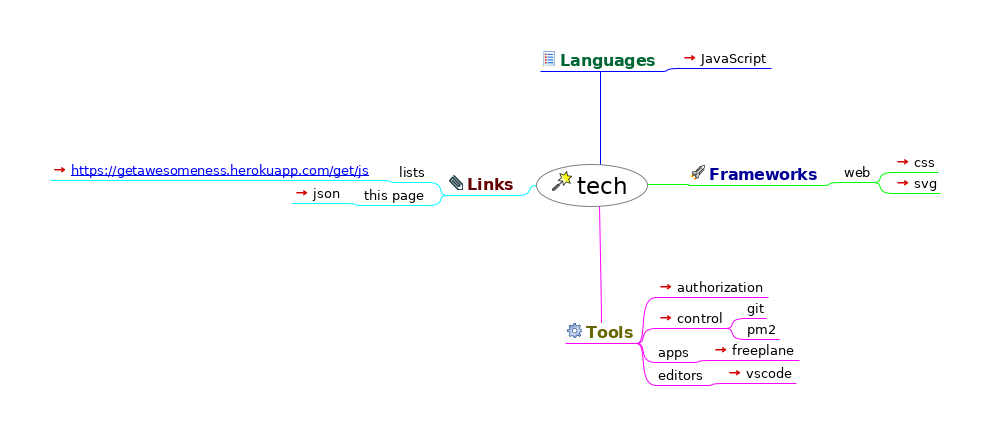
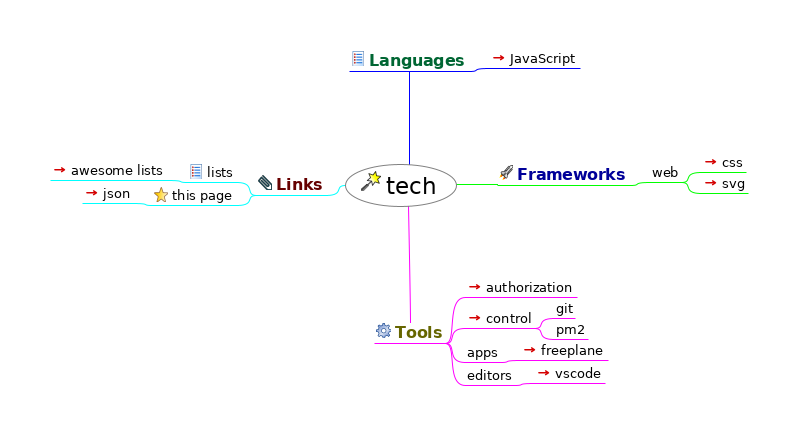
clean up links and processhtml

diff --git a/index.html b/index.html
@@ -23,30 +23,28 @@
                    };
                };
           
-          --></script></head><body><h1>tech</h1><div style="width:96%;  padding:2%;  margin-bottom:10px;  border: 0px;  text-align:center;  vertical-align:center;"><img src="index.html_files/image.png" style="margin-bottom:10px; &#9;border: 0px; &#9;text-align:center; &#9;vertical-align:center;" alt="Imagemap" usemap="#fm_imagemap" /></div><map name="fm_imagemap" id="fm_imagemap"><area shape="rect" href="#FMID_237352286FM" alt="tech" title="tech" coords="536,164,648,207" />
-<area shape="rect" href="#FMID_176155545FM" alt="Languages" title="Languages" coords="540,51,661,71" />
-<area shape="rect" href="https://melvincarvalho.github.io/JavaScript/" alt="JavaScript" title="JavaScript" coords="680,50,771,68" />
-<area shape="rect" href="#FMID_527312312FM" alt="Frameworks" title="Frameworks" coords="688,165,823,185" />
-<area shape="rect" href="#FMID_532002583FM" alt="web" title="web" coords="842,164,874,182" />
-<area shape="rect" href="css.html" alt="css" title="css" coords="893,154,938,172" />
-<area shape="rect" href="https://www.w3schools.com/graphics/svg_reference.asp" alt="svg" title="svg" coords="893,175,940,193" />
-<area shape="rect" href="#FMID_1810859973FM" alt="Tools" title="Tools" coords="565,323,637,343" />
-<area shape="rect" href="authorization/index.html" alt="authorization" title="authorization" coords="656,279,768,297" />
-<area shape="rect" href="control/index.html" alt="control" title="control" coords="656,310,726,328" />
-<area shape="rect" href="#FMID_1536156446FM" alt="git" title="git" coords="745,300,766,318" />
-<area shape="rect" href="#FMID_901084502FM" alt="pm2" title="pm2" coords="745,321,779,339" />
-<area shape="rect" href="#FMID_453742222FM" alt="apps" title="apps" coords="656,344,692,362" />
-<area shape="rect" href="freeplane.html" alt="freeplane" title="freeplane" coords="711,342,799,360" />
-<area shape="rect" href="#FMID_1019017499FM" alt="editors" title="editors" coords="656,367,706,385" />
-<area shape="rect" href="https://code.visualstudio.com/" alt="vscode" title="vscode" coords="725,365,796,383" />
-<area shape="rect" href="#FMID_777477932FM" alt="Links" title="Links" coords="447,175,517,195" />
-<area shape="rect" href="#FMID_21985093FM" alt="lists" title="lists" coords="397,164,428,182" />
-<area shape="rect" href="https://getawesomeness.herokuapp.com/get/js" alt="https://getawesomeness.herokuapp.com/get ..." title="https://getawesomeness.herokuapp.com/get ..." coords="50,162,378,180" />
-<area shape="rect" href="#FMID_117142409FM" alt="this page" title="this page" coords="362,187,428,205" />
-<area shape="rect" href="index.json" alt="json" title="json" coords="292,185,343,203" />
+          --></script></head><body><h1>tech</h1><div style="width:96%;  padding:2%;  margin-bottom:10px;  border: 0px;  text-align:center;  vertical-align:center;"><img src="index.html_files/image.png" style="margin-bottom:10px; &#9;border: 0px; &#9;text-align:center; &#9;vertical-align:center;" alt="Imagemap" usemap="#fm_imagemap" /></div><map name="fm_imagemap" id="fm_imagemap"><area shape="rect" href="#FMID_237352286FM" alt="tech" title="tech" coords="345,164,457,207" />
+<area shape="rect" href="#FMID_176155545FM" alt="Languages" title="Languages" coords="349,51,470,71" />
+<area shape="rect" href="https://melvincarvalho.github.io/JavaScript/" alt="JavaScript" title="JavaScript" coords="489,50,580,68" />
+<area shape="rect" href="#FMID_527312312FM" alt="Frameworks" title="Frameworks" coords="497,165,631,185" />
+<area shape="rect" href="#FMID_532002583FM" alt="web" title="web" coords="650,164,682,182" />
+<area shape="rect" href="css.html" alt="css" title="css" coords="701,154,746,172" />
+<area shape="rect" href="https://www.w3schools.com/graphics/svg_reference.asp" alt="svg" title="svg" coords="701,175,748,193" />
+<area shape="rect" href="#FMID_1810859973FM" alt="Tools" title="Tools" coords="374,323,446,343" />
+<area shape="rect" href="authorization/index.html" alt="authorization" title="authorization" coords="465,279,577,297" />
+<area shape="rect" href="control/index.html" alt="control" title="control" coords="465,310,535,328" />
+<area shape="rect" href="#FMID_1536156446FM" alt="git" title="git" coords="554,300,575,318" />
+<area shape="rect" href="#FMID_901084502FM" alt="pm2" title="pm2" coords="554,321,588,339" />
+<area shape="rect" href="#FMID_453742222FM" alt="apps" title="apps" coords="465,344,501,362" />
+<area shape="rect" href="freeplane.html" alt="freeplane" title="freeplane" coords="520,342,608,360" />
+<area shape="rect" href="#FMID_1019017499FM" alt="editors" title="editors" coords="465,367,515,385" />
+<area shape="rect" href="https://code.visualstudio.com/" alt="vscode" title="vscode" coords="534,365,605,383" />
+<area shape="rect" href="#FMID_777477932FM" alt="Links" title="Links" coords="256,175,326,195" />
+<area shape="rect" href="#FMID_21985093FM" alt="lists" title="lists" coords="187,164,237,182" />
+<area shape="rect" href="https://getawesomeness.herokuapp.com/get/js" alt="awesome lists" title="awesome lists" coords="50,162,168,180" />
+<area shape="rect" href="#FMID_117142409FM" alt="this page" title="this page" coords="152,187,237,205" />
+<area shape="rect" href="index.json" alt="json" title="json" coords="82,185,133,203" />
 </map>
 
-<div class="node"><img src="index.html_files/hide.png" class="hideshow" alt="hide" onClick="toggle(&quot;N65543&quot;)" id="imgN65543" /><img src="index.html_files/icons/wizard.svg" alt="wizard" /> <a id="FMID_237352286FM" /><div class="nodecontent" style="color:#000000;font-size:150%;">tech</div><div class="content" id="N65543"><div class="node"><img src="index.html_files/hide.png" class="hideshow" alt="hide" onClick="toggle(&quot;N66444&quot;)" id="imgN66444" /><img src="index.html_files/icons/list.svg" alt="list" /> <a id="FMID_176155545FM" /><div class="nodecontent" style="color:#006633;font-size:100%;font-weight:bold;">Languages</div><div class="content" id="N66444"><div class="node"><img src="index.html_files/leaf.png" class="hideshow" alt="leaf" /><a id="FMID_546595456FM" /><div class="nodecontent" style="color:#000000;font-size:83%;"><a href="https://melvincarvalho.github.io/JavaScript/">JavaScript</a> <a href="https://melvincarvalho.github.io/JavaScript/"><img src="index.html_files/ilink.png" alt="User Link" style="border-width:0" /></a></div></div></div></div><div class="node"><img src="index.html_files/hide.png" class="hideshow" alt="hide" onClick="toggle(&quot;N66525&quot;)" id="imgN66525" /><img src="index.html_files/icons/launch.svg" alt="launch" /> <a id="FMID_527312312FM" /><div class="nodecontent" style="color:#000099;font-size:100%;font-weight:bold;">Frameworks</div><div class="content" id="N66525"><div class="node"><img src="index.html_files/hide.png" class="hideshow" alt="hide" onClick="toggle(&quot;N66568&quot;)" id="imgN66568" /><a id="FMID_532002583FM" /><div class="nodecontent" style="color:#000000;font-size:83%;">web</div><div class="content" id="N66568"><div class="node"><img src="index.html_files/leaf.png" class="hideshow" alt="leaf" /><a id="FMID_1846113849FM" /><div class="nodecontent" style="color:#000000;font-size:83%;"><a href="css.html">css</a> <a href="css.html"><img src="index.html_files/ilink.png" alt="User Link" style="border-width:0" /></a></div></div><div class="node"><img src="index.html_files/leaf.png" class="hideshow" alt="leaf" /><a id="FMID_428457042FM" /><div class="nodecontent" style="color:#000000;font-size:83%;"><a href="https://www.w3schools.com/graphics/svg_reference.asp">svg</a> <a href="https://www.w3schools.com/graphics/svg_reference.asp"><img src="index.html_files/ilink.png" alt="User Link" style="border-width:0" /></a></div></div></div></div></div></div><div class="node"><img src="index.html_files/hide.png" class="hideshow" alt="hide" onClick="toggle(&quot;N66679&quot;)" id="imgN66679" /><img src="index.html_files/icons/executable.svg" alt="executable" /> <a id="FMID_1810859973FM" /><div class="nodecontent" style="color:#666600;font-size:100%;font-weight:bold;">Tools</div><div class="content" id="N66679"><div class="node"><img src="index.html_files/leaf.png" class="hideshow" alt="leaf" /><a id="FMID_1568925180FM" /><div class="nodecontent" style="color:#000000;font-size:83%;"><a href="authorization/index.html">authorization</a> <a href="authorization/index.html"><img src="index.html_files/ilink.png" alt="User Link" style="border-width:0" /></a></div></div><div class="node"><img src="index.html_files/hide.png" class="hideshow" alt="hide" onClick="toggle(&quot;N66759&quot;)" id="imgN66759" /><a id="FMID_1041005677FM" /><div class="nodecontent" style="color:#000000;font-size:83%;"><a href="control/index.html">control</a> <a href="control/index.html"><img src="index.html_files/ilink.png" alt="User Link" style="border-width:0" /></a></div><div class="content" id="N66759"><div class="node"><img src="index.html_files/leaf.png" class="hideshow" alt="leaf" /><a id="FMID_1536156446FM" /><div class="nodecontent" style="color:#000000;font-size:83%;">git</div></div><div class="node"><img src="index.html_files/leaf.png" class="hideshow" alt="leaf" /><a id="FMID_901084502FM" /><div class="nodecontent" style="color:#000000;font-size:83%;">pm2</div></div></div></div><div class="node"><img src="index.html_files/hide.png" class="hideshow" alt="hide" onClick="toggle(&quot;N66868&quot;)" id="imgN66868" /><a id="FMID_453742222FM" /><div class="nodecontent" style="color:#000000;font-size:83%;">apps</div><div class="content" id="N66868"><div class="node"><img src="index.html_files/leaf.png" class="hideshow" alt="leaf" /><a id="FMID_756649779FM" /><div class="nodecontent" style="color:#000000;font-size:83%;"><a href="freeplane.html">freeplane</a> <a href="freeplane.html"><img src="index.html_files/ilink.png" alt="User Link" style="border-width:0" /></a></div></div></div></div><div class="node"><img src="index.html_files/hide.png" class="hideshow" alt="hide" onClick="toggle(&quot;N66941&quot;)" id="imgN66941" /><a id="FMID_1019017499FM" /><div class="nodecontent" style="color:#000000;font-size:83%;">editors</div><div class="content" id="N66941"><div class="node"><img src="index.html_files/leaf.png" class="hideshow" alt="leaf" /><a id="FMID_847676993FM" /><div class="nodecontent" style="color:#000000;font-size:83%;"><a href="https://code.visualstudio.com/">vscode</a> <a href="https://code.visualstudio.com/"><img src="index.html_files/ilink.png" alt="User Link" style="border-width:0" /></a></div></div></div></div></div></div><div class="node"><img src="index.html_files/hide.png" class="hideshow" alt="hide" onClick="toggle(&quot;N67015&quot;)" id="imgN67015" /><img src="index.html_files/icons/attach.svg" alt="attach" /> <a id="FMID_777477932FM" /><div class="nodecontent" style="color:#660000;font-size:100%;font-weight:bold;">Links</div><div class="content" id="N67015"><div class="node"><img src="index.html_files/hide.png" class="hideshow" alt="hide" onClick="toggle(&quot;N67056&quot;)" id="imgN67056" /><a id="FMID_21985093FM" /><div class="nodecontent" style="color:#000000;font-size:83%;">lists</div><div class="content" id="N67056"><div class="node"><img src="index.html_files/leaf.png" class="hideshow" alt="leaf" /><a id="FMID_588856980FM" /><div class="nodecontent" style="color:#000000;font-size:83%;"><a href="https://getawesomeness.herokuapp.com/get/js">
-    <a http-equiv="content-type" content="text/html; charset=utf-8" href="https://getawesomeness.herokuapp.com/get/js">https://getawesomeness.herokuapp.com/get/js</a>
-  </a> <a href="https://getawesomeness.herokuapp.com/get/js"><img src="index.html_files/ilink.png" alt="User Link" style="border-width:0" /></a></div></div></div></div><div class="node"><img src="index.html_files/hide.png" class="hideshow" alt="hide" onClick="toggle(&quot;N67147&quot;)" id="imgN67147" /><a id="FMID_117142409FM" /><div class="nodecontent" style="color:#000000;font-size:83%;">this page</div><div class="content" id="N67147"><div class="node"><img src="index.html_files/leaf.png" class="hideshow" alt="leaf" /><a id="FMID_485260235FM" /><div class="nodecontent" style="color:#000000;font-size:83%;"><a href="index.json">json</a> <a href="index.json"><img src="index.html_files/ilink.png" alt="User Link" style="border-width:0" /></a></div></div></div></div></div></div></div></div>
+<div class="node"><img src="index.html_files/hide.png" class="hideshow" alt="hide" onClick="toggle(&quot;N65543&quot;)" id="imgN65543" /><img src="index.html_files/icons/wizard.svg" alt="wizard" /> <a id="FMID_237352286FM" /><div class="nodecontent" style="color:#000000;font-size:150%;">tech</div><div class="content" id="N65543"><div class="node"><img src="index.html_files/hide.png" class="hideshow" alt="hide" onClick="toggle(&quot;N66444&quot;)" id="imgN66444" /><img src="index.html_files/icons/list.svg" alt="list" /> <a id="FMID_176155545FM" /><div class="nodecontent" style="color:#006633;font-size:100%;font-weight:bold;">Languages</div><div class="content" id="N66444"><div class="node"><img src="index.html_files/leaf.png" class="hideshow" alt="leaf" /><a id="FMID_546595456FM" /><div class="nodecontent" style="color:#000000;font-size:83%;"><a href="https://melvincarvalho.github.io/JavaScript/">JavaScript</a> <a href="https://melvincarvalho.github.io/JavaScript/"><img src="index.html_files/ilink.png" alt="User Link" style="border-width:0" /></a></div></div></div></div><div class="node"><img src="index.html_files/hide.png" class="hideshow" alt="hide" onClick="toggle(&quot;N66525&quot;)" id="imgN66525" /><img src="index.html_files/icons/launch.svg" alt="launch" /> <a id="FMID_527312312FM" /><div class="nodecontent" style="color:#000099;font-size:100%;font-weight:bold;">Frameworks</div><div class="content" id="N66525"><div class="node"><img src="index.html_files/hide.png" class="hideshow" alt="hide" onClick="toggle(&quot;N66568&quot;)" id="imgN66568" /><a id="FMID_532002583FM" /><div class="nodecontent" style="color:#000000;font-size:83%;">web</div><div class="content" id="N66568"><div class="node"><img src="index.html_files/leaf.png" class="hideshow" alt="leaf" /><a id="FMID_1846113849FM" /><div class="nodecontent" style="color:#000000;font-size:83%;"><a href="css.html">css</a> <a href="css.html"><img src="index.html_files/ilink.png" alt="User Link" style="border-width:0" /></a></div></div><div class="node"><img src="index.html_files/leaf.png" class="hideshow" alt="leaf" /><a id="FMID_428457042FM" /><div class="nodecontent" style="color:#000000;font-size:83%;"><a href="https://www.w3schools.com/graphics/svg_reference.asp">svg</a> <a href="https://www.w3schools.com/graphics/svg_reference.asp"><img src="index.html_files/ilink.png" alt="User Link" style="border-width:0" /></a></div></div></div></div></div></div><div class="node"><img src="index.html_files/hide.png" class="hideshow" alt="hide" onClick="toggle(&quot;N66679&quot;)" id="imgN66679" /><img src="index.html_files/icons/executable.svg" alt="executable" /> <a id="FMID_1810859973FM" /><div class="nodecontent" style="color:#666600;font-size:100%;font-weight:bold;">Tools</div><div class="content" id="N66679"><div class="node"><img src="index.html_files/leaf.png" class="hideshow" alt="leaf" /><a id="FMID_1568925180FM" /><div class="nodecontent" style="color:#000000;font-size:83%;"><a href="authorization/index.html">authorization</a> <a href="authorization/index.html"><img src="index.html_files/ilink.png" alt="User Link" style="border-width:0" /></a></div></div><div class="node"><img src="index.html_files/hide.png" class="hideshow" alt="hide" onClick="toggle(&quot;N66759&quot;)" id="imgN66759" /><a id="FMID_1041005677FM" /><div class="nodecontent" style="color:#000000;font-size:83%;"><a href="control/index.html">control</a> <a href="control/index.html"><img src="index.html_files/ilink.png" alt="User Link" style="border-width:0" /></a></div><div class="content" id="N66759"><div class="node"><img src="index.html_files/leaf.png" class="hideshow" alt="leaf" /><a id="FMID_1536156446FM" /><div class="nodecontent" style="color:#000000;font-size:83%;">git</div></div><div class="node"><img src="index.html_files/leaf.png" class="hideshow" alt="leaf" /><a id="FMID_901084502FM" /><div class="nodecontent" style="color:#000000;font-size:83%;">pm2</div></div></div></div><div class="node"><img src="index.html_files/hide.png" class="hideshow" alt="hide" onClick="toggle(&quot;N66868&quot;)" id="imgN66868" /><a id="FMID_453742222FM" /><div class="nodecontent" style="color:#000000;font-size:83%;">apps</div><div class="content" id="N66868"><div class="node"><img src="index.html_files/leaf.png" class="hideshow" alt="leaf" /><a id="FMID_756649779FM" /><div class="nodecontent" style="color:#000000;font-size:83%;"><a href="freeplane.html">freeplane</a> <a href="freeplane.html"><img src="index.html_files/ilink.png" alt="User Link" style="border-width:0" /></a></div></div></div></div><div class="node"><img src="index.html_files/hide.png" class="hideshow" alt="hide" onClick="toggle(&quot;N66941&quot;)" id="imgN66941" /><a id="FMID_1019017499FM" /><div class="nodecontent" style="color:#000000;font-size:83%;">editors</div><div class="content" id="N66941"><div class="node"><img src="index.html_files/leaf.png" class="hideshow" alt="leaf" /><a id="FMID_847676993FM" /><div class="nodecontent" style="color:#000000;font-size:83%;"><a href="https://code.visualstudio.com/">vscode</a> <a href="https://code.visualstudio.com/"><img src="index.html_files/ilink.png" alt="User Link" style="border-width:0" /></a></div></div></div></div></div></div><div class="node"><img src="index.html_files/hide.png" class="hideshow" alt="hide" onClick="toggle(&quot;N67015&quot;)" id="imgN67015" /><img src="index.html_files/icons/attach.svg" alt="attach" /> <a id="FMID_777477932FM" /><div class="nodecontent" style="color:#660000;font-size:100%;font-weight:bold;">Links</div><div class="content" id="N67015"><div class="node"><img src="index.html_files/hide.png" class="hideshow" alt="hide" onClick="toggle(&quot;N67056&quot;)" id="imgN67056" /><img src="index.html_files/icons/list.svg" alt="list" /> <a id="FMID_21985093FM" /><div class="nodecontent" style="color:#000000;font-size:83%;">lists</div><div class="content" id="N67056"><div class="node"><img src="index.html_files/leaf.png" class="hideshow" alt="leaf" /><a id="FMID_588856980FM" /><div class="nodecontent" style="color:#000000;font-size:83%;"><a href="https://getawesomeness.herokuapp.com/get/js">awesome lists</a> <a href="https://getawesomeness.herokuapp.com/get/js"><img src="index.html_files/ilink.png" alt="User Link" style="border-width:0" /></a></div></div></div></div><div class="node"><img src="index.html_files/hide.png" class="hideshow" alt="hide" onClick="toggle(&quot;N67134&quot;)" id="imgN67134" /><img src="index.html_files/icons/bookmark.svg" alt="bookmark" /> <a id="FMID_117142409FM" /><div class="nodecontent" style="color:#000000;font-size:83%;">this page</div><div class="content" id="N67134"><div class="node"><img src="index.html_files/leaf.png" class="hideshow" alt="leaf" /><a id="FMID_485260235FM" /><div class="nodecontent" style="color:#000000;font-size:83%;"><a href="index.json">json</a> <a href="index.json"><img src="index.html_files/ilink.png" alt="User Link" style="border-width:0" /></a></div></div></div></div></div></div></div></div>
 </body></html>

diff --git a/index.mm b/index.mm
@@ -67,14 +67,14 @@
 <hook NAME="AutomaticEdgeColor" COUNTER="16" RULE="ON_BRANCH_CREATION"/>
 <node TEXT="Languages" POSITION="right" ID="ID_176155545" CREATED="1572063754537" MODIFIED="1572064366377" HGAP_QUANTITY="-81.24999716132886 pt" VSHIFT_QUANTITY="-35.99999892711642 pt" COLOR="#006633">
 <icon BUILTIN="list"/>
-<edge COLOR="#0000ff"/>
 <font SIZE="12" BOLD="true"/>
+<edge COLOR="#0000ff"/>
 <node TEXT="JavaScript" ID="ID_546595456" CREATED="1570576879455" MODIFIED="1570900226429" LINK="https://melvincarvalho.github.io/JavaScript/"/>
 </node>
 <node TEXT="Frameworks" POSITION="right" ID="ID_527312312" CREATED="1572063758657" MODIFIED="1572064375760" HGAP_QUANTITY="29.749999530613437 pt" VSHIFT_QUANTITY="24.749999262392546 pt" COLOR="#000099">
 <icon BUILTIN="launch"/>
-<edge COLOR="#00ff00"/>
 <font SIZE="12" BOLD="true"/>
+<edge COLOR="#00ff00"/>
 <node TEXT="web" ID="ID_532002583" CREATED="1571333469724" MODIFIED="1572063802934">
 <node TEXT="css" ID="ID_1846113849" CREATED="1571333474425" MODIFIED="1571333716551" LINK="css.mm"/>
 <node TEXT="svg" ID="ID_428457042" CREATED="1571334566267" MODIFIED="1571336723249" LINK="https://www.w3schools.com/graphics/svg_reference.asp"/>
@@ -82,8 +82,8 @@
 </node>
 <node TEXT="Tools" POSITION="right" ID="ID_1810859973" CREATED="1572063767900" MODIFIED="1572064386689" HGAP_QUANTITY="-62.4999977201224 pt" VSHIFT_QUANTITY="62.24999814480549 pt" COLOR="#666600">
 <icon BUILTIN="executable"/>
-<edge COLOR="#ff00ff"/>
 <font SIZE="12" BOLD="true"/>
+<edge COLOR="#ff00ff"/>
 <node TEXT="authorization" ID="ID_1568925180" CREATED="1572000518964" MODIFIED="1572063778651" LINK="authorization/index.mm"/>
 <node TEXT="control" ID="ID_1041005677" CREATED="1570900237485" MODIFIED="1572063781802" LINK="control/index.mm">
 <node TEXT="git" ID="ID_1536156446" CREATED="1570577057978" MODIFIED="1570900242896"/>
@@ -98,23 +98,14 @@
 </node>
 <node TEXT="Links" POSITION="left" ID="ID_777477932" CREATED="1572063875737" MODIFIED="1572064427848" COLOR="#660000">
 <icon BUILTIN="attach"/>
-<edge COLOR="#00ffff"/>
 <font SIZE="12" BOLD="true"/>
-<node TEXT="lists" ID="ID_21985093" CREATED="1571731255998" MODIFIED="1572063881756">
-<node ID="ID_588856980" CREATED="1571731259435" MODIFIED="1571731259435" LINK="https://getawesomeness.herokuapp.com/get/js"><richcontent TYPE="NODE">
-
-<html>
-  <head>
-    
-  </head>
-  <body>
-    <a http-equiv="content-type" content="text/html; charset=utf-8" href="https://getawesomeness.herokuapp.com/get/js">https://getawesomeness.herokuapp.com/get/js</a> 
-  </body>
-</html>
-</richcontent>
+<edge COLOR="#00ffff"/>
+<node TEXT="lists" ID="ID_21985093" CREATED="1571731255998" MODIFIED="1572498673983">
+<icon BUILTIN="list"/>
+<node TEXT="awesome lists" ID="ID_588856980" CREATED="1571731259435" MODIFIED="1572498667633" LINK="https://getawesomeness.herokuapp.com/get/js"/>
 </node>
-</node>
-<node TEXT="this page" ID="ID_117142409" CREATED="1571731629320" MODIFIED="1572063883712">
+<node TEXT="this page" ID="ID_117142409" CREATED="1571731629320" MODIFIED="1572498680071">
+<icon BUILTIN="bookmark"/>
 <node TEXT="json" ID="ID_485260235" CREATED="1571731633357" MODIFIED="1571731648894" LINK="index.json"/>
 </node>
 </node>
